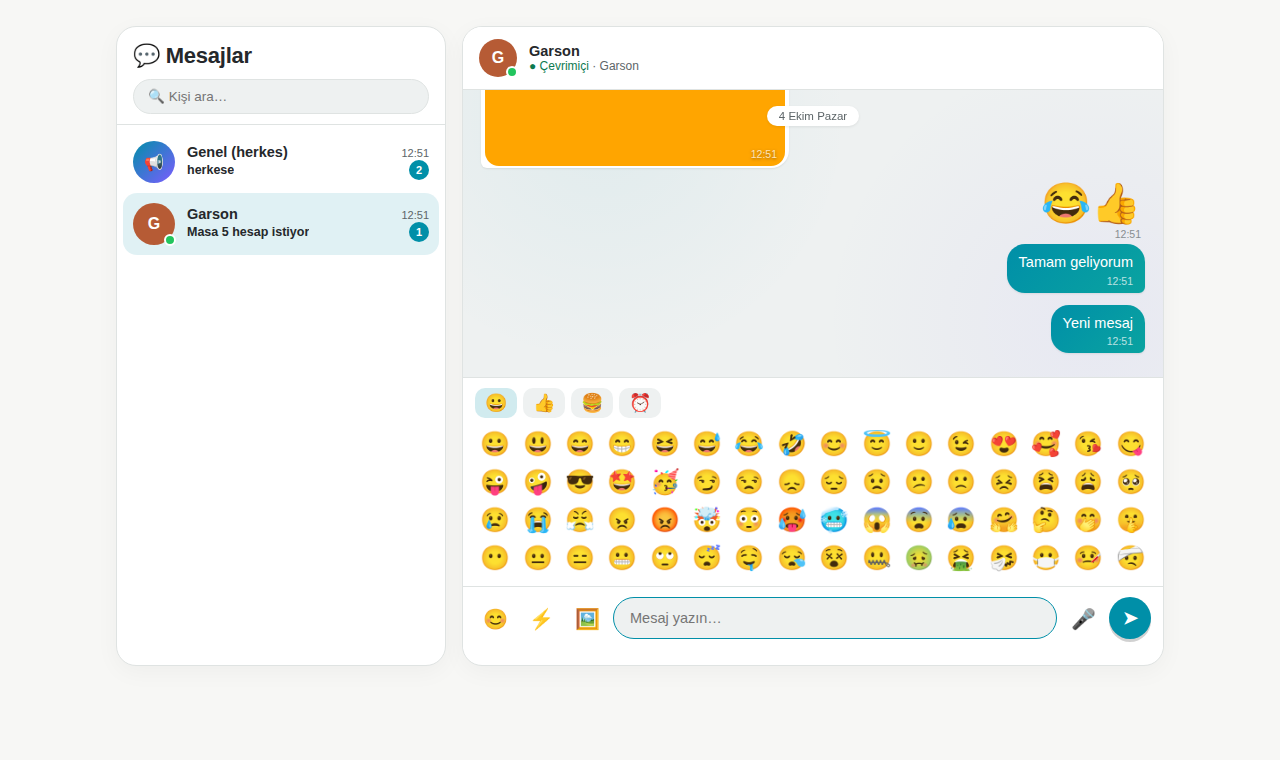
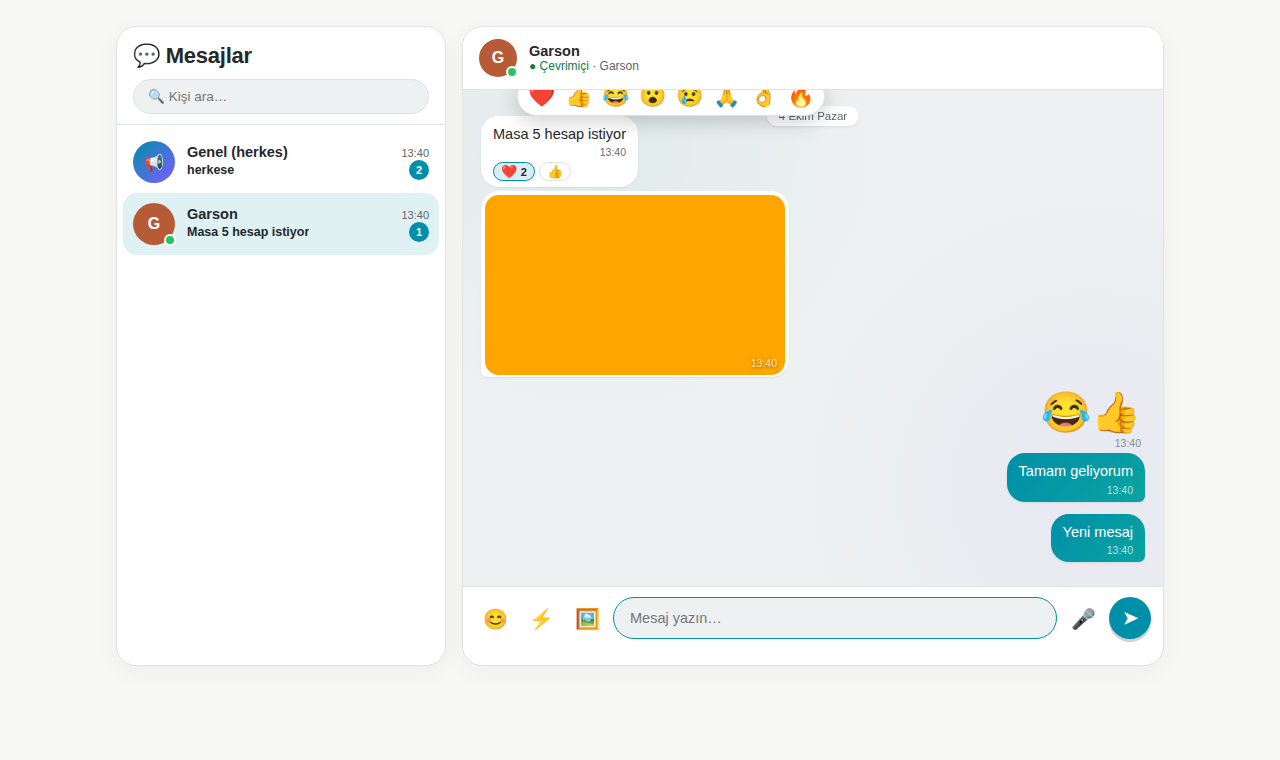
Mesajlara tepki (kalp, beğeni vb.)
Claude-Session: https://claude.ai/code/session_012DVeFbZrZae4i3WqpTG2NA

diff --git a/app/js/messages.js b/app/js/messages.js
@@ -127,7 +127,9 @@ async function refreshChatThread(){
         ${m.attachment ? `<img class="chat-img" src="${m.attachment}" alt="" loading="lazy" onclick="openChatImage(this.src)">` : ''}
         ${m.body ? `<div class="chat-body">${escapeHtml(m.body)}</div>` : ''}
         <div class="chat-time">${new Date(m.created_at).toLocaleTimeString('tr-TR',{hour:'2-digit',minute:'2-digit'})}</div>
+        ${(m.reactions||[]).length ? `<div class="chat-reacts">${m.reactions.map(r => `<button type="button" class="chat-react ${r.mine?'mine':''}" title="${escapeAttr(r.names||'')}" onclick="event.stopPropagation();toggleChatReaction('${m.id}','${r.emoji}')">${r.emoji}${r.count>1?` <b>${r.count}</b>`:''}</button>`).join('')}</div>` : ''}
       </div>
+      <button type="button" class="chat-react-open" title="Tepki ver" onclick="event.stopPropagation();openReactionBar(this,'${m.id}')">😊</button>
     </div>`;
   }).join('') : `<div class="chat-empty"><div style="font-size:46px;">👋</div><b>Henüz mesaj yok</b><p class="muted">İlk mesajı siz yazın.</p></div>`;
   if(atBottom || !el.dataset.loaded){ el.scrollTop = el.scrollHeight; el.dataset.loaded = '1'; }
@@ -216,6 +218,25 @@ function toggleChatDictation(){
 function stopChatDictation(){
   if(CHAT_REC){ const r = CHAT_REC; CHAT_REC = null; try{ r.stop(); }catch(e){} }
   const mic = document.getElementById('chatMic'); if(mic) mic.classList.remove('rec');
+}
+/* Mesaja tepki: mesajın üstüne gelince (mobilde dokununca) çıkan 😊 ile
+   kalp, beğeni vb. bırakılır; aynı tepkiye tekrar basmak geri alır. */
+const CHAT_REACTIONS = ['❤','👍','😂','😮','😢','🙏','👌','🔥'];
+function openReactionBar(btn, messageId){
+  document.querySelectorAll('.chat-react-bar').forEach(b => b.remove());
+  const bar = document.createElement('div'); bar.className = 'chat-react-bar';
+  bar.innerHTML = CHAT_REACTIONS.map(e => `<button type="button" onclick="event.stopPropagation();toggleChatReaction('${messageId}','${e}');this.parentNode.remove();">${e}</button>`).join('');
+  const row = btn.closest('.chat-row'); row.appendChild(bar);
+  // Üstte yer yoksa (sohbetin ilk mesajları) çubuk mesajın altında açılır.
+  const thread = document.getElementById('chatThread');
+  if(thread && row.getBoundingClientRect().top - thread.getBoundingClientRect().top < 52) bar.classList.add('below');
+  setTimeout(() => document.addEventListener('click', function close(){ bar.remove(); document.removeEventListener('click', close); }), 0);
+}
+async function toggleChatReaction(messageId, emoji){
+  const session = getSession();
+  const { error } = await sb.rpc('toggle_chat_reaction', { p_token: session.session_token, p_message_id: messageId, p_emoji: emoji });
+  if(error){ alert(error.message); return; }
+  refreshChatThread();
 }
 // Değişiklik sayacı tetiklediğinde: liste ve açık sohbet yazılan metne dokunmadan tazelenir.
 function refreshMessagesView(){

diff --git a/app/css/app.css b/app/css/app.css
@@ -611,3 +611,19 @@ div.table-cell.badge-row::before{content:'● Hazır, ödeme bekliyor';margin:0 
 .zone-add-new{margin-top:4px;padding-top:14px;border-top:1px dashed var(--border);}
 .zone-tables > .muted{grid-column:1/-1;}
 .chat-thread,.chat-list{overscroll-behavior:contain;}
+
+.chat-row{position:relative;}
+.chat-react-open{width:30px;height:30px;margin:0;padding:0;border-radius:50%;background:var(--panel);border:1px solid var(--border);box-shadow:0 1px 3px rgba(0,0,0,.1);font-size:15px;opacity:0;transition:opacity .15s;align-self:center;flex-shrink:0;cursor:pointer;}
+.chat-row.mine .chat-react-open{order:-1;}
+.chat-row:hover .chat-react-open,.chat-row:focus-within .chat-react-open{opacity:1;}
+@media (hover:none){.chat-react-open{opacity:.55;}}
+.chat-react-bar{position:absolute;bottom:100%;z-index:3;display:flex;gap:2px;background:var(--panel);border:1px solid var(--border);border-radius:999px;padding:4px 6px;box-shadow:0 6px 20px rgba(0,0,0,.18);}
+.chat-row:not(.mine) .chat-react-bar{left:36px;}
+.chat-row.mine .chat-react-bar{right:0;}
+.chat-react-bar button{width:auto;margin:0;padding:2px 4px;background:transparent;border:none;box-shadow:none;font-size:22px;cursor:pointer;transition:transform .1s;}
+.chat-react-bar button:hover{transform:scale(1.3);}
+.chat-reacts{display:flex;flex-wrap:wrap;gap:4px;margin-top:4px;}
+.chat-react{width:auto;margin:0;padding:1px 7px;border-radius:999px;background:var(--panel);border:1px solid var(--border);box-shadow:none;font-size:13px;color:var(--text);cursor:pointer;}
+.chat-react b{font-size:11px;}
+.chat-react.mine{border-color:var(--accent);background:rgba(0,143,168,.15);}
+.chat-react-bar.below{bottom:auto;top:100%;}
